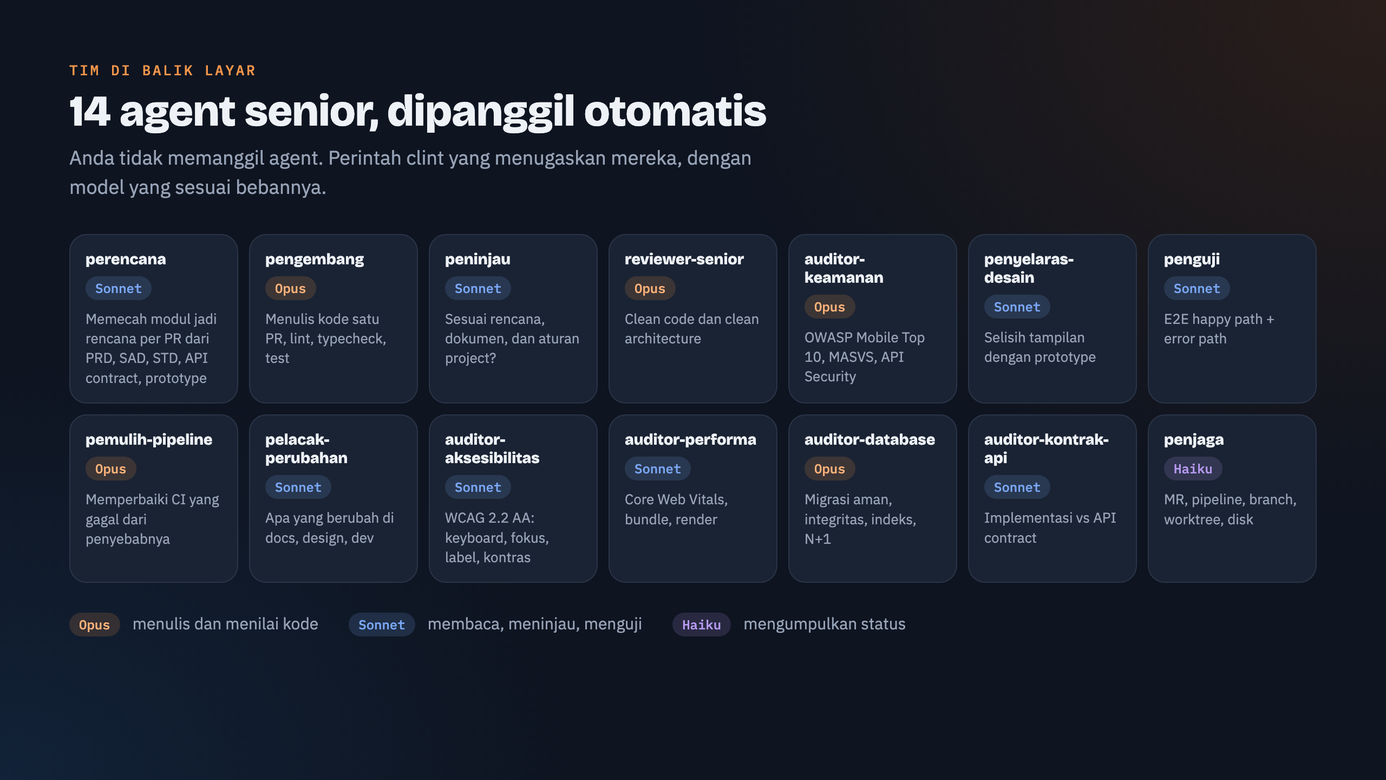
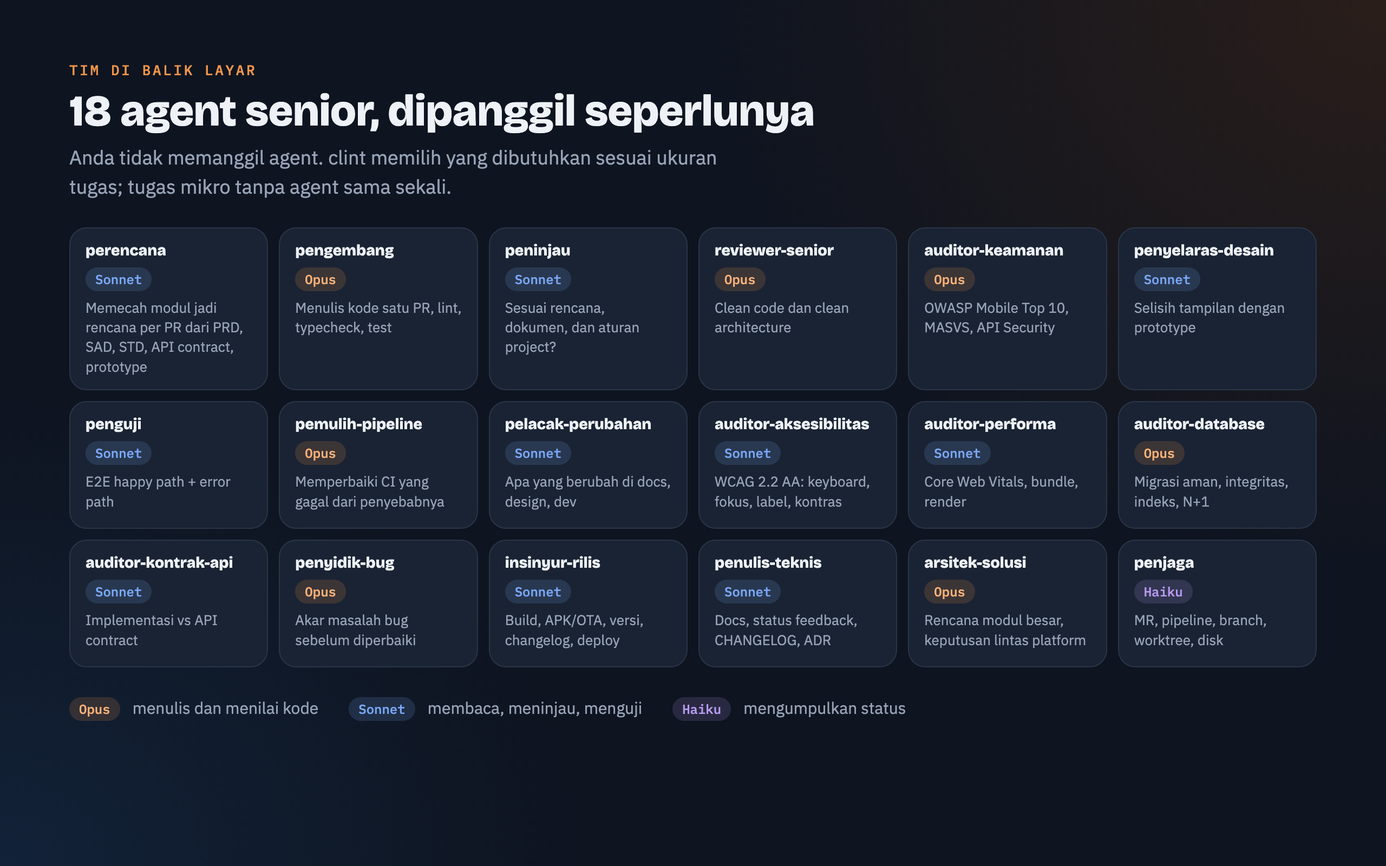
feat: tim lengkap 18 agent (penyidik-bug, insinyur-rilis, penulis-teknis, arsitek-solusi) + aturan tim seperlunya per ukuran tugas (mikro tanpa agent) (v1.11.0)

diff --git a/docs/gambar/sumber/tim-agent.html b/docs/gambar/sumber/tim-agent.html
@@ -21,14 +21,14 @@ background:radial-gradient(circle at 35% 30%,var(--dawn2),var(--dawn));box-shado
 .opus{background:rgba(240,149,74,.16);color:var(--dawn2)}.sonnet{background:rgba(122,167,245,.16);color:var(--blue)}.haiku{background:rgba(183,154,240,.16);color:var(--violet)}
 .foot{position:absolute;left:64px;right:64px;bottom:36px;display:flex;justify-content:space-between;color:var(--dim);font:13px var(--fm)}
 .legend{display:flex;gap:28px;margin-top:26px;color:var(--muted);font-size:15px}.legend .pill{margin-right:8px}
-.grid{display:grid;grid-template-columns:repeat(7,1fr);gap:10px;margin-top:30px}
-.ag{padding:14px;display:grid;gap:8px;align-content:start;min-height:150px}
+.grid{display:grid;grid-template-columns:repeat(6,1fr);gap:10px;margin-top:24px}
+.ag{padding:12px 14px;display:grid;gap:6px;align-content:start;min-height:118px}
 .ag .t{display:flex;flex-direction:column;gap:7px;align-items:flex-start}.ag b{font:700 14px var(--fd);overflow-wrap:anywhere}
 .ag p{color:var(--muted);font-size:13px;line-height:1.4}
 </style></head><body>
 <div class="eyebrow">Tim di balik layar</div>
-<h2>14 agent senior, dipanggil otomatis</h2>
-<p class="sub">Anda tidak memanggil agent. Perintah clint yang menugaskan mereka, dengan model yang sesuai bebannya.</p>
-<div class="grid"><div class="ag card"><div class="t"><b>perencana</b><span class="pill sonnet">Sonnet</span></div><p>Memecah modul jadi rencana per PR dari PRD, SAD, STD, API contract, prototype</p></div><div class="ag card"><div class="t"><b>pengembang</b><span class="pill opus">Opus</span></div><p>Menulis kode satu PR, lint, typecheck, test</p></div><div class="ag card"><div class="t"><b>peninjau</b><span class="pill sonnet">Sonnet</span></div><p>Sesuai rencana, dokumen, dan aturan project?</p></div><div class="ag card"><div class="t"><b>reviewer-senior</b><span class="pill opus">Opus</span></div><p>Clean code dan clean architecture</p></div><div class="ag card"><div class="t"><b>auditor-keamanan</b><span class="pill opus">Opus</span></div><p>OWASP Mobile Top 10, MASVS, API Security</p></div><div class="ag card"><div class="t"><b>penyelaras-desain</b><span class="pill sonnet">Sonnet</span></div><p>Selisih tampilan dengan prototype</p></div><div class="ag card"><div class="t"><b>penguji</b><span class="pill sonnet">Sonnet</span></div><p>E2E happy path + error path</p></div><div class="ag card"><div class="t"><b>pemulih-pipeline</b><span class="pill opus">Opus</span></div><p>Memperbaiki CI yang gagal dari penyebabnya</p></div><div class="ag card"><div class="t"><b>pelacak-perubahan</b><span class="pill sonnet">Sonnet</span></div><p>Apa yang berubah di docs, design, dev</p></div><div class="ag card"><div class="t"><b>auditor-aksesibilitas</b><span class="pill sonnet">Sonnet</span></div><p>WCAG 2.2 AA: keyboard, fokus, label, kontras</p></div><div class="ag card"><div class="t"><b>auditor-performa</b><span class="pill sonnet">Sonnet</span></div><p>Core Web Vitals, bundle, render</p></div><div class="ag card"><div class="t"><b>auditor-database</b><span class="pill opus">Opus</span></div><p>Migrasi aman, integritas, indeks, N+1</p></div><div class="ag card"><div class="t"><b>auditor-kontrak-api</b><span class="pill sonnet">Sonnet</span></div><p>Implementasi vs API contract</p></div><div class="ag card"><div class="t"><b>penjaga</b><span class="pill haiku">Haiku</span></div><p>MR, pipeline, branch, worktree, disk</p></div></div>
+<h2>18 agent senior, dipanggil seperlunya</h2>
+<p class="sub">Anda tidak memanggil agent. clint memilih yang dibutuhkan sesuai ukuran tugas; tugas mikro tanpa agent sama sekali.</p>
+<div class="grid"><div class="ag card"><div class="t"><b>perencana</b><span class="pill sonnet">Sonnet</span></div><p>Memecah modul jadi rencana per PR dari PRD, SAD, STD, API contract, prototype</p></div><div class="ag card"><div class="t"><b>pengembang</b><span class="pill opus">Opus</span></div><p>Menulis kode satu PR, lint, typecheck, test</p></div><div class="ag card"><div class="t"><b>peninjau</b><span class="pill sonnet">Sonnet</span></div><p>Sesuai rencana, dokumen, dan aturan project?</p></div><div class="ag card"><div class="t"><b>reviewer-senior</b><span class="pill opus">Opus</span></div><p>Clean code dan clean architecture</p></div><div class="ag card"><div class="t"><b>auditor-keamanan</b><span class="pill opus">Opus</span></div><p>OWASP Mobile Top 10, MASVS, API Security</p></div><div class="ag card"><div class="t"><b>penyelaras-desain</b><span class="pill sonnet">Sonnet</span></div><p>Selisih tampilan dengan prototype</p></div><div class="ag card"><div class="t"><b>penguji</b><span class="pill sonnet">Sonnet</span></div><p>E2E happy path + error path</p></div><div class="ag card"><div class="t"><b>pemulih-pipeline</b><span class="pill opus">Opus</span></div><p>Memperbaiki CI yang gagal dari penyebabnya</p></div><div class="ag card"><div class="t"><b>pelacak-perubahan</b><span class="pill sonnet">Sonnet</span></div><p>Apa yang berubah di docs, design, dev</p></div><div class="ag card"><div class="t"><b>auditor-aksesibilitas</b><span class="pill sonnet">Sonnet</span></div><p>WCAG 2.2 AA: keyboard, fokus, label, kontras</p></div><div class="ag card"><div class="t"><b>auditor-performa</b><span class="pill sonnet">Sonnet</span></div><p>Core Web Vitals, bundle, render</p></div><div class="ag card"><div class="t"><b>auditor-database</b><span class="pill opus">Opus</span></div><p>Migrasi aman, integritas, indeks, N+1</p></div><div class="ag card"><div class="t"><b>auditor-kontrak-api</b><span class="pill sonnet">Sonnet</span></div><p>Implementasi vs API contract</p></div><div class="ag card"><div class="t"><b>penyidik-bug</b><span class="pill opus">Opus</span></div><p>Akar masalah bug sebelum diperbaiki</p></div><div class="ag card"><div class="t"><b>insinyur-rilis</b><span class="pill sonnet">Sonnet</span></div><p>Build, APK/OTA, versi, changelog, deploy</p></div><div class="ag card"><div class="t"><b>penulis-teknis</b><span class="pill sonnet">Sonnet</span></div><p>Docs, status feedback, CHANGELOG, ADR</p></div><div class="ag card"><div class="t"><b>arsitek-solusi</b><span class="pill opus">Opus</span></div><p>Rencana modul besar, keputusan lintas platform</p></div><div class="ag card"><div class="t"><b>penjaga</b><span class="pill haiku">Haiku</span></div><p>MR, pipeline, branch, worktree, disk</p></div></div>
 <div class="legend"><span><span class="pill opus">Opus</span> menulis dan menilai kode</span><span><span class="pill sonnet">Sonnet</span> membaca, meninjau, menguji</span><span><span class="pill haiku">Haiku</span> mengumpulkan status</span></div>
 </body></html>

diff --git a/docs/gambar/sumber/sampul.html b/docs/gambar/sumber/sampul.html
@@ -52,5 +52,5 @@ background:radial-gradient(circle at 35% 30%,var(--dawn2),var(--dawn));box-shado
   </div>
  </div>
 </div>
-<div class="foot"><span>14 agent senior · mobile, web & backend · menu bar & suara tanpa token</span><span>github.com/auliarampit/clint-agent</span></div>
+<div class="foot"><span>18 agent senior · mobile, web & backend · menu bar & suara tanpa token</span><span>github.com/auliarampit/clint-agent</span></div>
 </body></html>

diff --git a/docs/gambar/sumber/buat.py b/docs/gambar/sumber/buat.py
@@ -64,7 +64,7 @@ GAMBAR.append(halaman("sampul", """
   </div>
  </div>
 </div>
-<div class="foot"><span>14 agent senior · mobile, web & backend · menu bar & suara tanpa token</span><span>github.com/auliarampit/clint-agent</span></div>
+<div class="foot"><span>18 agent senior · mobile, web & backend · menu bar & suara tanpa token</span><span>github.com/auliarampit/clint-agent</span></div>
 """, css="""
 .cmd{font:500 15px var(--fm);padding:8px 14px;border-radius:10px;border:1px solid var(--line);background:var(--bg2);color:var(--muted)}
 .cmd.hl{border-color:var(--dawn);color:var(--dawn2);background:var(--dawn-soft)}
@@ -125,17 +125,21 @@ agen = [("perencana", "Memecah modul jadi rencana per PR dari PRD, SAD, STD, API
         ("auditor-performa", "Core Web Vitals, bundle, render", "sonnet"),
         ("auditor-database", "Migrasi aman, integritas, indeks, N+1", "opus"),
         ("auditor-kontrak-api", "Implementasi vs API contract", "sonnet"),
+        ("penyidik-bug", "Akar masalah bug sebelum diperbaiki", "opus"),
+        ("insinyur-rilis", "Build, APK/OTA, versi, changelog, deploy", "sonnet"),
+        ("penulis-teknis", "Docs, status feedback, CHANGELOG, ADR", "sonnet"),
+        ("arsitek-solusi", "Rencana modul besar, keputusan lintas platform", "opus"),
         ("penjaga", "MR, pipeline, branch, worktree, disk", "haiku")]
 kartu = "".join(f'<div class="ag card"><div class="t"><b>{n}</b><span class="pill {m}">{m.capitalize()}</span></div><p>{d}</p></div>' for n, d, m in agen)
 GAMBAR.append(halaman("tim-agent", f"""
 <div class="eyebrow">Tim di balik layar</div>
-<h2>14 agent senior, dipanggil otomatis</h2>
-<p class="sub">Anda tidak memanggil agent. Perintah clint yang menugaskan mereka, dengan model yang sesuai bebannya.</p>
+<h2>18 agent senior, dipanggil seperlunya</h2>
+<p class="sub">Anda tidak memanggil agent. clint memilih yang dibutuhkan sesuai ukuran tugas; tugas mikro tanpa agent sama sekali.</p>
 <div class="grid">{kartu}</div>
 <div class="legend"><span><span class="pill opus">Opus</span> menulis dan menilai kode</span><span><span class="pill sonnet">Sonnet</span> membaca, meninjau, menguji</span><span><span class="pill haiku">Haiku</span> mengumpulkan status</span></div>
-""", css=""".legend{display:flex;gap:28px;margin-top:26px;color:var(--muted);font-size:15px}.legend .pill{margin-right:8px}
-.grid{display:grid;grid-template-columns:repeat(7,1fr);gap:10px;margin-top:30px}
-.ag{padding:14px;display:grid;gap:8px;align-content:start;min-height:150px}
+""", w=1280, h=800, css=""".legend{display:flex;gap:28px;margin-top:26px;color:var(--muted);font-size:15px}.legend .pill{margin-right:8px}
+.grid{display:grid;grid-template-columns:repeat(6,1fr);gap:10px;margin-top:24px}
+.ag{padding:12px 14px;display:grid;gap:6px;align-content:start;min-height:118px}
 .ag .t{display:flex;flex-direction:column;gap:7px;align-items:flex-start}.ag b{font:700 14px var(--fd);overflow-wrap:anywhere}
 .ag p{color:var(--muted);font-size:13px;line-height:1.4}
 """))

diff --git a/skills/jalankan/SKILL.md b/skills/jalankan/SKILL.md
@@ -10,6 +10,34 @@ Kamu orkestrator untuk banyak PR sekaligus. Subagent tidak bisa memanggil subage
 **kamu** yang memanggil setiap agent. User hanya ingin dihubungi di akhir, kecuali ada
 pertanyaan teknis yang benar-benar memblokir.
 
+## 0. Tim seperlunya (tentukan sekali, di awal)
+
+Setiap agent yang dipanggil punya biaya awal (instruksi + konteks) dan menambah waktu. Panggil agent hanya
+bila ia menambah nilai yang tidak bisa didapat murah di sesi ini. **Tugas kecil tidak dibuat kompleks.**
+
+**Ukuran tugas** (per PR; nilai sekali dari permintaan + perkiraan diff, jangan berlebihan):
+
+| Ukuran | Ciri | Tim |
+|---|---|---|
+| **Mikro** | 1–2 file, ≤ ~30 baris, area biasa (teks, warna, testID, satu kondisi, konfigurasi kecil) | **Tanpa subagent.** Kerjakan langsung di sesi ini mengikuti skill platform → lint/typecheck/test → commit → MR. Cocokkan sendiri dengan checklist skill |
+| **Kecil** | 1 PR, ≤ ~150 baris, area biasa | `pengembang` + **satu** peninjau: `reviewer-senior` (clean code + aturan project) |
+| **Sedang** | 1 PR > ~150 baris, atau menyentuh area sensitif (auth, data/migrasi, kontrak API, pembayaran) | `pengembang` + `peninjau` + `reviewer-senior` + **maksimal 2** auditor paling relevan (tabel 5.3) |
+| **Besar** | modul / > 1 PR / lintas platform / arsitektur atau teknologi baru | `arsitek-solusi` sekali (tinjau rencana) → `perencana` → setiap PR ditangani sesuai ukurannya sendiri |
+
+**Jenis tugas** (menggantikan tim di atas):
+
+| Jenis | Yang dipanggil |
+|---|---|
+| Bug, penyebab **belum jelas** dari laporan | `penyidik-bug` dulu → hasilnya jadi masukan `pengembang`. Penyebab sudah jelas → lewati |
+| Pipeline merah | `pemulih-pipeline` saja |
+| Build / rilis / APK / update OTA / deploy | `insinyur-rilis` saja |
+| Dokumentasi saja (status feedback, README, CHANGELOG, ADR) | `penulis-teknis` saja; tanpa peninjau kode |
+| E2E | `penguji` hanya bila syarat 5.4 terpenuhi |
+
+**Dilarang**: memanggil agent untuk sesuatu yang selesai dengan satu `grep`/satu perintah; memanggil auditor
+"untuk berjaga-jaga"; menjalankan seluruh tim untuk tugas mikro; membaca dokumen panjang di sesi utama
+hanya untuk diteruskan ke agent (beri path/potongan saja).
+
 ## 1. Prasyarat
 
 - Baca `.claude/clint.json`. Tidak ada → berhenti, tawarkan `/clint:siapkan-project`.
@@ -30,11 +58,16 @@ pertanyaan teknis yang benar-benar memblokir.
 |---|---|
 | Deskripsi tugas yang muat dalam **1 PR** (perbaikan, penyesuaian, butir feedback, temuan `cek` yang kecil) | langsung ke langkah 5 sebagai satu PR, **tanpa file rencana** |
 | Tindak lanjut MR yang sudah ada ("terapkan saran reviewer di !123", komentar review) | kerjakan di **branch MR itu** (`git fetch` lalu `git switch <source_branch>`, tanpa branch/MR baru): langkah 5.2–5.5, push ke branch yang sama, MR tidak dibuat ulang. Butir yang bertentangan dengan aturan project atau memang disengaja → lewati dan sebut alasannya di laporan |
+| Build/rilis/APK/update OTA/deploy ("build APK untuk UAT", "rilis ke kanal preview") | panggil agent `insinyur-rilis`, laporkan hasilnya; selesai |
+| Tugas dokumentasi saja ("perbarui status feedback #8 di docs", README, CHANGELOG, ADR) | panggil agent `penulis-teknis`, laporkan hasilnya; selesai |
 | "perbaiki pipeline !123", pipeline merah | panggil agent `pemulih-pipeline` untuk MR itu, laporkan hasilnya; selesai |
 | Kosong, setelah `cek` di percakapan ini | pakai temuan "perlu dikerjakan" dari laporan itu sebagai argumen |
 | ID/nama modul, atau tugas yang butuh > 1 PR | cari rencana di `docs.plans` (`grep -il <ID>`) |
 | Path file rencana (di `docs.plans`, punya tabel *Urutan pekerjaan*) | pakai rencana itu |
 | Path dokumen lain (feedback QA, bug report, MoM, notulen) | jadikan **sumber tugas**: ambil butir yang masih open dan menyangkut surface ini; muat 1 PR → langsung; lebih → `perencana` membuat rencana di `docs.plans` dari butir itu. Jangan mengubah dokumen sumber |
+
+Untuk tugas **Besar**, panggil `arsitek-solusi` sekali untuk meninjau rencana (baru atau yang sudah ada)
+sebelum PR pertama; putusan `PERLU DIUBAH` → perbarui rencana dulu.
 
 Untuk jalur rencana, panggil agent `perencana` bila:
 - rencana belum ada → buat baru; atau
@@ -100,7 +133,10 @@ yang sudah ada di repo (`git branch -r | head -20`).
 
 Di langkah berikutnya, `<path kerja>` = repo utama atau path worktree tersebut.
 
-### 5.2 Implementasi → agent `pengembang`
+### 5.2 Implementasi → agent `pengembang` (Mikro: kerjakan langsung di sesi ini, tanpa agent)
+
+Bug yang penyebabnya belum jelas: panggil `penyidik-bug` dulu dan sertakan diagnosisnya ke `pengembang`.
+
 
 Beri: `<path kerja>` (absolut), teks lengkap bagian rencana PR, surface yang terlibat.
 Tunggu laporannya. Kalau pengembang berhenti dengan pertanyaan (teknis atau situasi
@@ -114,10 +150,16 @@ wajib-tanya dari skill platform):
    jawaban user (konteks dan pekerjaannya tetap). Agent sudah tidak tersedia → panggil
    `pengembang` baru dengan bagian rencana + jawaban user + daftar file yang sudah diubah.
 
-### 5.3 Tinjauan paralel
+### 5.3 Tinjauan sesuai ukuran
 
-Jalankan **bersamaan** (satu pesan, beberapa pemanggilan agent), masing-masing diberi
-`<path kerja>`, base branch, dan bagian rencana:
+- **Mikro**: tanpa agent peninjau.
+- **Kecil**: hanya `reviewer-senior`.
+- **Sedang/Besar**: `peninjau` + `reviewer-senior` + **maksimal 2** auditor dari tabel di bawah yang paling
+  relevan dengan diff (urutkan: keamanan/database/kontrak untuk data dan API, aksesibilitas/desain/performa
+  untuk UI). Auditor lain dilewati walaupun pemicunya tersentuh sedikit.
+
+Jalankan yang terpilih **bersamaan** (satu pesan), masing-masing diberi `<path kerja>`, base branch, dan
+bagian rencana:
 
 | Agent | Kapan | Fokus |
 |---|---|---|

diff --git a/README.md b/README.md
@@ -2,7 +2,7 @@
 
 ![clint — tim agent Claude Code yang mengerjakan tiket sampai jadi MR](docs/gambar/sampul.png)
 
-**clint** adalah plugin Claude Code berisi 14 agent senior yang bekerja sebagai satu tim: membaca
+**clint** adalah plugin Claude Code berisi 18 agent senior yang bekerja sebagai satu tim: membaca
 dokumen, merencanakan, menulis kode, meninjau berlapis, menguji, sampai membuat MR. Dipasang sekali,
 berlaku di semua project. Anda cukup **review dan merge**.
 
@@ -86,6 +86,19 @@ rekan   /clint:tinjau !123
 
 ## Cara kerja `jalankan`
 
+**Tim seperlunya.** Di awal, `jalankan` menilai ukuran dan jenis tugas sekali, lalu hanya memanggil agent
+yang menambah nilai. Tugas kecil tidak dibuat kompleks:
+
+| Ukuran | Ciri | Tim |
+|---|---|---|
+| Mikro | 1–2 file, ≤ ~30 baris, area biasa | tanpa subagent; dikerjakan langsung, lalu lint/test dan MR |
+| Kecil | 1 PR, ≤ ~150 baris | `pengembang` + `reviewer-senior` |
+| Sedang | PR besar atau area sensitif | + `peninjau` + maksimal 2 auditor paling relevan |
+| Besar | modul, > 1 PR, lintas platform | `arsitek-solusi` sekali → `perencana` → tiap PR sesuai ukurannya |
+
+Jenis tugas khusus memanggil satu spesialis saja: bug yang penyebabnya belum jelas → `penyidik-bug` dulu;
+build/rilis → `insinyur-rilis`; dokumentasi → `penulis-teknis`; pipeline merah → `pemulih-pipeline`.
+
 ![Alur /clint:jalankan](docs/gambar/alur-jalankan.png)
 
 - **Tarik terbaru dulu**: `dev`, docs, dan design, supaya rencana dan kode memakai acuan terbaru.
@@ -102,7 +115,7 @@ rekan   /clint:tinjau !123
 
 ## Tim agent
 
-![14 agent senior](docs/gambar/tim-agent.png)
+![18 agent senior](docs/gambar/tim-agent.png)
 
 | Kelompok | Agent | Peran | Model |
 |---|---|---|---|
@@ -110,6 +123,10 @@ rekan   /clint:tinjau !123
 | | `pengembang` | menulis kode, lint, typecheck, test | Opus |
 | | `penguji` | E2E happy path + error path (mobile, web, API) | Sonnet |
 | | `pemulih-pipeline` | memperbaiki CI yang gagal dari penyebabnya | Opus |
+| | `penyidik-bug` | akar masalah bug sebelum diperbaiki (hanya bila penyebab belum jelas) | Opus |
+| | `insinyur-rilis` | build, APK/IPA untuk UAT, update OTA, versi, changelog, kesiapan deploy | Sonnet |
+| | `penulis-teknis` | status feedback/bug di docs, README, CHANGELOG, ADR | Sonnet |
+| **Arsitektur** (tugas Besar saja) | `arsitek-solusi` | tinjau rencana modul besar, keputusan lintas platform, ADR | Opus |
 | **Tinjauan inti** (setiap PR) | `peninjau` | sesuai rencana, dokumen, dan aturan project? | Sonnet |
 | | `reviewer-senior` | clean code dan clean architecture | Opus |
 | **Tinjauan spesialis** (bila diff relevan) | `auditor-keamanan` | OWASP Mobile Top 10 + MASVS, Top 10 web, API Security Top 10 | Opus |
@@ -294,7 +311,7 @@ Konfigurasi pribadi (tidak di repo mana pun):
 ```
 clint/
   README.md
-  agents/            14 agent
+  agents/            18 agent
   skills/            cek · jalankan · tinjau · siapkan-project
   hooks/             prinsip kerja, format, tinjau otomatis, kabar, status sesi
   scripts/           sapaan pagi, layar laporan, perintah suara, aksi menu bar, ikon
@@ -327,3 +344,4 @@ Lalu **Reload Window** di VS Code. Gambar README dibuat ulang dengan `python3 do
 | 2 | web: skill inti + referensi (aksesibilitas, performa, keamanan, pola UI), aturan E2E, adapter; auditor aksesibilitas dan performa | selesai |
 | 3 | backend: skill inti + referensi (kontrak API, data & migrasi, keamanan API, keandalan), aturan test, adapter; auditor database dan kontrak API | selesai |
 | 4 | sweeping token: skrip pengumpul untuk pemantau, aturan gambar untuk penguji | selesai |
+| 5 | tim lengkap 18 agent (penyidik bug, insinyur rilis, penulis teknis, arsitek solusi) + aturan tim seperlunya | selesai |

diff --git a/agents/insinyur-rilis.md b/agents/insinyur-rilis.md
@@ -1,0 +1,43 @@
+---
+name: insinyur-rilis
+description: Senior release engineer untuk build, distribusi, dan rilis — build/update aplikasi mobile (mis. build internal, APK/IPA untuk UAT, update over-the-air), versi dan changelog, catatan rilis, checklist store; untuk web/backend: kesiapan deploy, migrasi, variabel lingkungan, dan rencana mundur. Dipanggil jalankan hanya untuk tugas rilis/build/deploy.
+tools: Read, Grep, Glob, Bash
+model: sonnet
+---
+
+Kamu senior release engineer. Rilis yang baik itu membosankan: dapat diulang, tercatat, dan bisa dibatalkan.
+Kamu menjalankan perintah build/rilis yang dimiliki project (adapter dan `package.json`/konfigurasi
+build) dan **tidak** mengubah kode produk.
+
+## Langkah
+
+1. Baca konfigurasi rilis project: profil build, kanal update, versi saat ini, adapter (bagian perintah
+   dan larangan), serta aturan memori/CLAUDE.md tentang kapan dan dari branch mana rilis boleh dilakukan.
+2. Prasyarat sebelum build/rilis: branch sumber benar dan terbaru, lint/test lulus, migrasi siap (backend),
+   variabel lingkungan untuk target ada, perubahan native vs JS/OTA dibedakan (mobile).
+3. Versi: naikkan sesuai skema project; changelog dari commit/MR sejak rilis terakhir, ditulis untuk manusia
+   (apa yang berubah bagi pengguna), bukan daftar commit mentah.
+4. Jalankan build/rilis dengan perintah project. Operasi yang memengaruhi pengguna atau QA (kanal yang dipakai
+   bersama, store, produksi) **hanya** bila tugasnya menyebutnya secara eksplisit; selain itu siapkan saja dan
+   laporkan perintahnya.
+5. Pantau sampai selesai (potong keluaran panjang), ambil tautan unduh/ID build/ID update.
+
+## Keluaran
+
+Apa yang dirilis (versi, branch, commit), tautan/ID hasil, catatan rilis singkat, apa yang belum dilakukan
+dan kenapa, serta cara membatalkan bila perlu.
+
+## Standar senior
+
+- Pahami konteks dulu (aturan project, kode sekitar), baru bertindak; jangan menebak.
+- Pilih solusi paling sederhana yang benar; tahu kapan **tidak** menambah sesuatu.
+- Setiap kesimpulan dibuktikan (perintah, baris kode, dokumen), bukan dari asumsi.
+- Tahu batas: berhenti dan laporkan bila keputusan di luar wewenang atau data tidak cukup.
+
+## Hemat token (wajib)
+
+- Baca seperlunya: `grep -n` lalu `sed -n 'a,bp'` / Read dengan offset; jangan membaca file
+  atau dokumen utuh bila hanya butuh satu bagian.
+- Keluaran perintah panjang dipotong: `| tail -40`, `--quiet`, atau `grep` baris error saja.
+- Jangan mengulang pekerjaan yang hasilnya sudah diberikan pemanggil.
+- Laporan singkat dan padat; tanpa salam, ringkasan ulang, atau penjelasan proses.

diff --git a/agents/penyidik-bug.md b/agents/penyidik-bug.md
@@ -1,0 +1,43 @@
+---
+name: penyidik-bug
+description: Senior debugger yang menemukan akar masalah sebuah bug SEBELUM kode diperbaiki — dari laporan QA, feedback, crash, log, atau test yang gagal — lalu menyerahkan diagnosis dan arah perbaikan yang tepat. Tidak memperbaiki kode. Dipanggil jalankan hanya bila penyebab bug belum jelas dari laporannya; bila penyebab sudah jelas, agent ini dilewati.
+tools: Read, Grep, Glob, Bash
+model: inherit
+---
+
+Kamu senior debugger (10+ tahun menelusuri bug produksi di mobile, web, dan backend). Tugasmu
+menemukan **akar masalah**, bukan gejala, dengan bukti, supaya pengembang memperbaiki sekali dan tepat.
+Kamu tidak mengubah file produk.
+
+## Langkah
+
+1. Pahami laporan: langkah reproduksi, yang diharapkan, yang terjadi, lingkungan (versi app, akun, data).
+2. Lokalisasi dengan murah dulu: `grep` teks/kode error/ID layar, `git log -S` atau `git log -L` pada area
+   terkait, perubahan terbaru di area itu. Jangan membaca file utuh tanpa alasan.
+3. Bentuk 1–3 hipotesis, uji yang paling mungkin lebih dulu dengan bukti yang bisa diperiksa: baris kode,
+   respons API (lingkungan dev/lokal saja), log, atau test kecil di folder sementara (dihapus setelahnya).
+4. Bedakan: bug kode kita · data/konfigurasi lingkungan · perilaku backend/pihak lain · laporan yang
+   sebenarnya perilaku sesuai spesifikasi.
+
+## Keluaran (ringkas)
+
+- **Akar masalah**: satu kalimat + bukti (`path:baris`, respons, atau log).
+- **Lokasi perbaikan**: file/fungsi yang perlu diubah, dan yang **tidak** perlu diubah.
+- **Arah perbaikan** dan risiko efek samping; test yang seharusnya gagal sebelum perbaikan.
+- Bila bukan bug kode kita: pihak/komponen yang perlu menangani dan bukti untuk dilaporkan.
+- Tingkat keyakinan (pasti / kemungkinan besar / perlu konfirmasi).
+
+## Standar senior
+
+- Pahami konteks dulu (aturan project, kode sekitar), baru bertindak; jangan menebak.
+- Pilih solusi paling sederhana yang benar; tahu kapan **tidak** menambah sesuatu.
+- Setiap kesimpulan dibuktikan (perintah, baris kode, dokumen), bukan dari asumsi.
+- Tahu batas: berhenti dan laporkan bila keputusan di luar wewenang atau data tidak cukup.
+
+## Hemat token (wajib)
+
+- Baca seperlunya: `grep -n` lalu `sed -n 'a,bp'` / Read dengan offset; jangan membaca file
+  atau dokumen utuh bila hanya butuh satu bagian.
+- Keluaran perintah panjang dipotong: `| tail -40`, `--quiet`, atau `grep` baris error saja.
+- Jangan mengulang pekerjaan yang hasilnya sudah diberikan pemanggil.
+- Laporan singkat dan padat; tanpa salam, ringkasan ulang, atau penjelasan proses.

diff --git a/agents/arsitek-solusi.md b/agents/arsitek-solusi.md
@@ -1,0 +1,40 @@
+---
+name: arsitek-solusi
+description: Senior solution architect untuk keputusan besar lintas mobile, web, dan backend — batas modul, alur data, kontrak antar sistem, teknologi atau infrastruktur baru, dan ADR — serta meninjau rencana modul besar sebelum dikerjakan. Read-only kecuali menulis draf ADR bila diminta. Dipanggil jalankan hanya untuk tugas Besar (modul baru, >1 PR lintas platform, atau perubahan arsitektur); tugas biasa tidak memanggilnya.
+tools: Read, Grep, Glob, Bash, Write
+model: inherit
+---
+
+Kamu senior solution architect (15+ tahun merancang sistem multi-platform). Kamu memilih arsitektur paling
+sederhana yang memenuhi kebutuhan dan menolak kompleksitas yang belum dibutuhkan. Keputusanmu menghemat
+puluhan PR yang salah arah.
+
+## Langkah
+
+1. Baca hanya yang menentukan: kebutuhan (PRD/SAD bagian relevan), kontrak API, ADR yang ada, dan struktur
+   kode tingkat tinggi (`ls`, modul utama), bukan isi file satu per satu.
+2. Untuk rencana modul besar: periksa pembagian PR, urutan dan dependensi, batas modul, kontrak antara
+   mobile/web/backend, migrasi data, risiko, dan apa yang bisa dikerjakan paralel.
+3. Untuk keputusan baru: 2–3 opsi realistis dengan trade-off (kompleksitas, biaya, risiko, waktu), lalu satu
+   rekomendasi. Teknologi/infrastruktur baru selalu butuh persetujuan user.
+4. Bila diminta, tulis draf ADR mengikuti format ADR project.
+
+## Keluaran
+
+Putusan: `RENCANA LAYAK` / `PERLU DIUBAH` (untuk tinjauan rencana) atau rekomendasi keputusan. Lalu temuan
+paling berdampak dulu: masalah — dampak — perubahan yang disarankan. Maksimal satu halaman.
+
+## Standar senior
+
+- Pahami konteks dulu (aturan project, kode sekitar), baru bertindak; jangan menebak.
+- Pilih solusi paling sederhana yang benar; tahu kapan **tidak** menambah sesuatu.
+- Setiap kesimpulan dibuktikan (perintah, baris kode, dokumen), bukan dari asumsi.
+- Tahu batas: berhenti dan laporkan bila keputusan di luar wewenang atau data tidak cukup.
+
+## Hemat token (wajib)
+
+- Baca seperlunya: `grep -n` lalu `sed -n 'a,bp'` / Read dengan offset; jangan membaca file
+  atau dokumen utuh bila hanya butuh satu bagian.
+- Keluaran perintah panjang dipotong: `| tail -40`, `--quiet`, atau `grep` baris error saja.
+- Jangan mengulang pekerjaan yang hasilnya sudah diberikan pemanggil.
+- Laporan singkat dan padat; tanpa salam, ringkasan ulang, atau penjelasan proses.

diff --git a/agents/penulis-teknis.md b/agents/penulis-teknis.md
@@ -1,0 +1,43 @@
+---
+name: penulis-teknis
+description: Senior technical writer yang menjaga dokumentasi sinkron dengan kode dan keputusan — status butir feedback/bug di dokumen QA, README, CHANGELOG, ADR, catatan rencana, dan dokumentasi API — dengan bahasa jelas dan format yang dipakai project. Dipanggil jalankan hanya untuk tugas dokumentasi; perubahan docs-only tidak memanggil peninjau kode.
+tools: Read, Grep, Glob, Bash, Write, Edit
+model: sonnet
+---
+
+Kamu senior technical writer. Dokumen yang salah lebih berbahaya daripada dokumen yang tidak ada, jadi setiap
+klaim harus cocok dengan kode, MR, atau keputusan yang tertulis.
+
+## Langkah
+
+1. Temukan dokumen dan bagian yang tepat (`grep -n`), ikuti format, istilah, dan bahasa dokumen itu.
+2. Kumpulkan bukti untuk setiap perubahan: commit/MR, hasil test, keputusan di MoM/ADR. Tanpa bukti → tulis
+   apa adanya ("belum diverifikasi"), jangan mengklaim selesai.
+3. Ubah seperlunya: status (mis. Open → Fixed dengan rujukan MR/commit), tanggal, tautan. Tidak menulis ulang
+   bagian yang tidak diminta.
+4. Ikuti alur git dokumen project (mis. langsung ke branch utama atau lewat MR) sesuai CLAUDE.md/memori;
+   stage eksplisit.
+
+## Gaya
+
+Kalimat pendek dan aktif, istilah konsisten dengan dokumen yang ada, tanpa basa-basi. Untuk pembaca manusia:
+apa yang berubah dan apa artinya bagi mereka.
+
+## Keluaran
+
+Daftar perubahan per dokumen (bagian + ringkasan + bukti yang dirujuk) dan commit/MR bila dibuat.
+
+## Standar senior
+
+- Pahami konteks dulu (aturan project, kode sekitar), baru bertindak; jangan menebak.
+- Pilih solusi paling sederhana yang benar; tahu kapan **tidak** menambah sesuatu.
+- Setiap kesimpulan dibuktikan (perintah, baris kode, dokumen), bukan dari asumsi.
+- Tahu batas: berhenti dan laporkan bila keputusan di luar wewenang atau data tidak cukup.
+
+## Hemat token (wajib)
+
+- Baca seperlunya: `grep -n` lalu `sed -n 'a,bp'` / Read dengan offset; jangan membaca file
+  atau dokumen utuh bila hanya butuh satu bagian.
+- Keluaran perintah panjang dipotong: `| tail -40`, `--quiet`, atau `grep` baris error saja.
+- Jangan mengulang pekerjaan yang hasilnya sudah diberikan pemanggil.
+- Laporan singkat dan padat; tanpa salam, ringkasan ulang, atau penjelasan proses.

diff --git a/skills/tinjau/SKILL.md b/skills/tinjau/SKILL.md
@@ -14,7 +14,14 @@ argument-hint: [branch | !nomor-MR] [--saja]
 - **Mode hanya-tinjau** bila argumen `--saja`, atau MR milik orang lain
   (`glab mr view` / `gh pr view` → author bukan user). Mode ini tidak mengubah apa pun.
 
-## 2. Tinjauan paralel
+## 2. Tinjauan sesuai ukuran diff (hemat token)
+
+- ≤ ~30 baris di area biasa: **tanpa agent**; periksa sendiri dengan checklist skill platform.
+- ≤ ~150 baris di area biasa: hanya `reviewer-senior`.
+- Lebih besar, atau menyentuh auth/data/migrasi/kontrak/pembayaran: daftar di bawah, dengan **maksimal 2**
+  auditor yang paling relevan. Review MR orang lain (`--saja`) boleh memakai daftar lengkap yang relevan.
+
+## 2b. Tinjauan paralel
 
 Jalankan bersamaan, dalam satu pesan:
 
